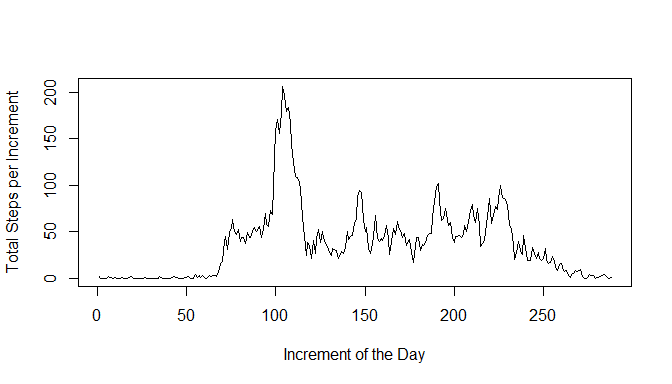
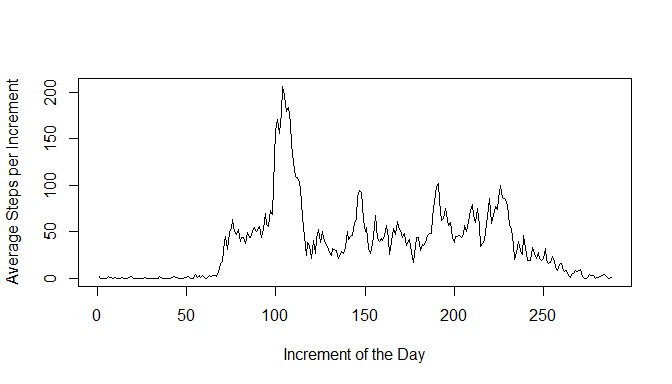
nearly done with the imputed data, heading out for the day

Changed region(s): [[0.0, 0.1875, 0.0312, 0.75]]

diff --git a/PA1_template.html b/PA1_template.html
@@ -101,8 +101,8 @@ totPerDay</code></pre>
 ## 2012-11-30 
 ##          0</code></pre>
 <p>And how about a histogram of that?</p>
-<pre class="r"><code>hist(totPerDay,breaks=20,col='light blue',ylab='Total Steps per Day',main='Histogram of Steps per Day')</code></pre>
[1 lines of base64/hex data omitted]
+<pre class="r"><code>hist(totPerDay,breaks=20,col='light blue',xlab='Total Steps per Day',main='Histogram of Steps per Day')</code></pre>
[1 lines of base64/hex data omitted]
 <p>We can see that no recorded steps is about as frequent as the other most common bin (~10000 steps). Finally, we want the mean and medium across days. That’s pretty similar to the total.</p>
 <pre class="r"><code>meanSteps &lt;- mean(totPerDay)
 medianSteps &lt;- median(totPerDay)</code></pre>
@@ -112,14 +112,44 @@ medianSteps &lt;- median(totPerDay)</code></pre>
 <h2>What is the average daily activity pattern?</h2>
 <p>Next, instead of looking at the level of days we’ll look at the level of 5 minute increments within days.<br />Here’s a plot of the average number of steps per increment.</p>
 <pre class="r"><code>totPerInc &lt;- tapply(walk$steps,walk$interval,mean, na.rm=TRUE)
-plot(totPerInc,type='l',xlab='Increment of the Day',ylab='Total Steps per Increment')</code></pre>
[1 lines of base64/hex data omitted]
+plot(totPerInc,type='l',xlab='Increment of the Day',ylab='Average Steps per Increment')</code></pre>
[1 lines of base64/hex data omitted]
 <pre class="r"><code>maxInc &lt;- which.max(totPerInc)
 maxSteps &lt;- totPerInc[maxInc]</code></pre>
-<p>The most steps, on average, occur during the 104th increment when an average of 206.1698113 steps are taken.</p>
+<p>The most steps, on average, occur during the 104th increment when an average of 206.17 steps are taken.</p>
 </div>
 <div id="imputing-missing-values" class="section level2">
 <h2>Imputing missing values</h2>
+<p>Step 1 for filling in the missing values is to determine how many there are.</p>
+<pre class="r"><code>totMissing &lt;- length(which(is.na(walk$steps)))</code></pre>
+<p>There are 2304 missing data points.</p>
+<p>To fill in the missing points, I’m going to look ahead to the next part of the assignment a bit. Since some days are completely missing, I don’t want to just use the average within a day, because that would still be unknown. Instead, I’m going to use a regression to predict the number of steps by the interval, day, and day of the week.</p>
+<pre class="r"><code>walk$day &lt;- weekdays(walk$date)
+mod1 &lt;- lm(steps ~ date+interval+day,data=walk)
+missPoints &lt;- subset(walk,is.na(steps))
+predictions &lt;- predict(mod1,new=missPoints[,2:4])
+missPoints$steps &lt;- predictions</code></pre>
+<p>So now we have the missing observations separated out and replaced with an imputed guess. The model isn’t great;<br />the adjusted R squared is less than .01. But the regression says that some days are predictive<br />as is the interval in the day, so hopefully the imputation is better than a very simple average.</p>
+<p>Now we want to make a new dataset that incorporates the imputation and look at the mean and median steps across days.</p>
+<pre class="r"><code>require(dplyr)</code></pre>
+<pre><code>## Loading required package: dplyr
+## 
+## Attaching package: 'dplyr'
+## 
+## The following objects are masked from 'package:stats':
+## 
+##     filter, lag
+## 
+## The following objects are masked from 'package:base':
+## 
+##     intersect, setdiff, setequal, union</code></pre>
+<pre class="r"><code>walk2 &lt;- walk %&gt;% filter(!is.na(steps)) %&gt;% bind_rows(missPoints) %&gt;% arrange(date,interval)
+totPerDay2 &lt;- tapply(walk2$steps,walk2$date,sum,na.rm=TRUE)
+hist(totPerDay2,breaks=20,col='light blue',xlab='Total Steps per Day',main='Histogram of Steps per Day After Imputation')</code></pre>
[1 lines of base64/hex data omitted]
+<pre class="r"><code>meanSteps2 &lt;- mean(totPerDay2)
+medianSteps2 &lt;- median(totPerDay2)</code></pre>
+<p>After imputaton, the mean is 1.08234910^{4} and the median is 1.101510^{4}.<br />This is a difference of 1469.26 for the average and 620 for the median, which is a noticeable difference.</p>
 </div>
 <div id="are-there-differences-in-activity-patterns-between-weekdays-and-weekends" class="section level2">
 <h2>Are there differences in activity patterns between weekdays and weekends?</h2>

diff --git a/PA1_template.md b/PA1_template.md
@@ -56,7 +56,7 @@ And how about a histogram of that?
 
 
 ```r
-hist(totPerDay,breaks=20,col='light blue',ylab='Total Steps per Day',main='Histogram of Steps per Day')
+hist(totPerDay,breaks=20,col='light blue',xlab='Total Steps per Day',main='Histogram of Steps per Day')
 ```
 
 ![](PA1_template_files/figure-html/unnamed-chunk-4-1.png) 
@@ -77,7 +77,7 @@ Here's a plot of the average number of steps per increment.
 
 ```r
 totPerInc <- tapply(walk$steps,walk$interval,mean, na.rm=TRUE)
-plot(totPerInc,type='l',xlab='Increment of the Day',ylab='Total Steps per Increment')
+plot(totPerInc,type='l',xlab='Increment of the Day',ylab='Average Steps per Increment')
 ```
 
 ![](PA1_template_files/figure-html/unnamed-chunk-6-1.png) 
@@ -86,10 +86,65 @@ plot(totPerInc,type='l',xlab='Increment of the Day',ylab='Total Steps per Increm
 maxInc <- which.max(totPerInc)
 maxSteps <- totPerInc[maxInc]
 ```
-The most steps, on average, occur during the 104th increment when an average of 206.1698113 steps are taken.
+The most steps, on average, occur during the 104th increment when an average of 206.17 steps are taken.
 
 ## Imputing missing values
+Step 1 for filling in the missing values is to determine how many there are.
 
+```r
+totMissing <- length(which(is.na(walk$steps)))
+```
+There are 2304 missing data points.
 
+To fill in the missing points, I'm going to look ahead to the next part of the assignment a bit.
+Since some days are completely missing, I don't want to just use the average within a day, because that would still be unknown.
+Instead, I'm going to use a regression to predict the number of steps by the interval, day, and day of the week.
+
+```r
+walk$day <- weekdays(walk$date)
+mod1 <- lm(steps ~ date+interval+day,data=walk)
+missPoints <- subset(walk,is.na(steps))
+predictions <- predict(mod1,new=missPoints[,2:4])
+missPoints$steps <- predictions
+```
+So now we have the missing observations separated out and replaced with an imputed guess.  The model isn't great;  
+the adjusted R squared is less than .01.  But the regression says that some days are predictive  
+as is the interval in the day, so hopefully the imputation is better than a very simple average.
+
+Now we want to make a new dataset that incorporates the imputation and look at the mean and median steps across days.
+
+```r
+require(dplyr)
+```
+
+```
+## Loading required package: dplyr
+## 
+## Attaching package: 'dplyr'
+## 
+## The following objects are masked from 'package:stats':
+## 
+##     filter, lag
+## 
+## The following objects are masked from 'package:base':
+## 
+##     intersect, setdiff, setequal, union
+```
+
+```r
+walk2 <- walk %>% filter(!is.na(steps)) %>% bind_rows(missPoints) %>% arrange(date,interval)
+totPerDay2 <- tapply(walk2$steps,walk2$date,sum,na.rm=TRUE)
+hist(totPerDay2,breaks=20,col='light blue',xlab='Total Steps per Day',main='Histogram of Steps per Day After Imputation')
+```
+
+![](PA1_template_files/figure-html/unnamed-chunk-9-1.png) 
+
+```r
+meanSteps2 <- mean(totPerDay2)
+medianSteps2 <- median(totPerDay2)
+```
+After imputaton, the mean is 1.082349\times 10^{4} and the median is 1.1015\times 10^{4}.  
+This is a difference of 1469.26 for the average and 620 for the median,
+which is a noticeable difference.
 
 ## Are there differences in activity patterns between weekdays and weekends?
